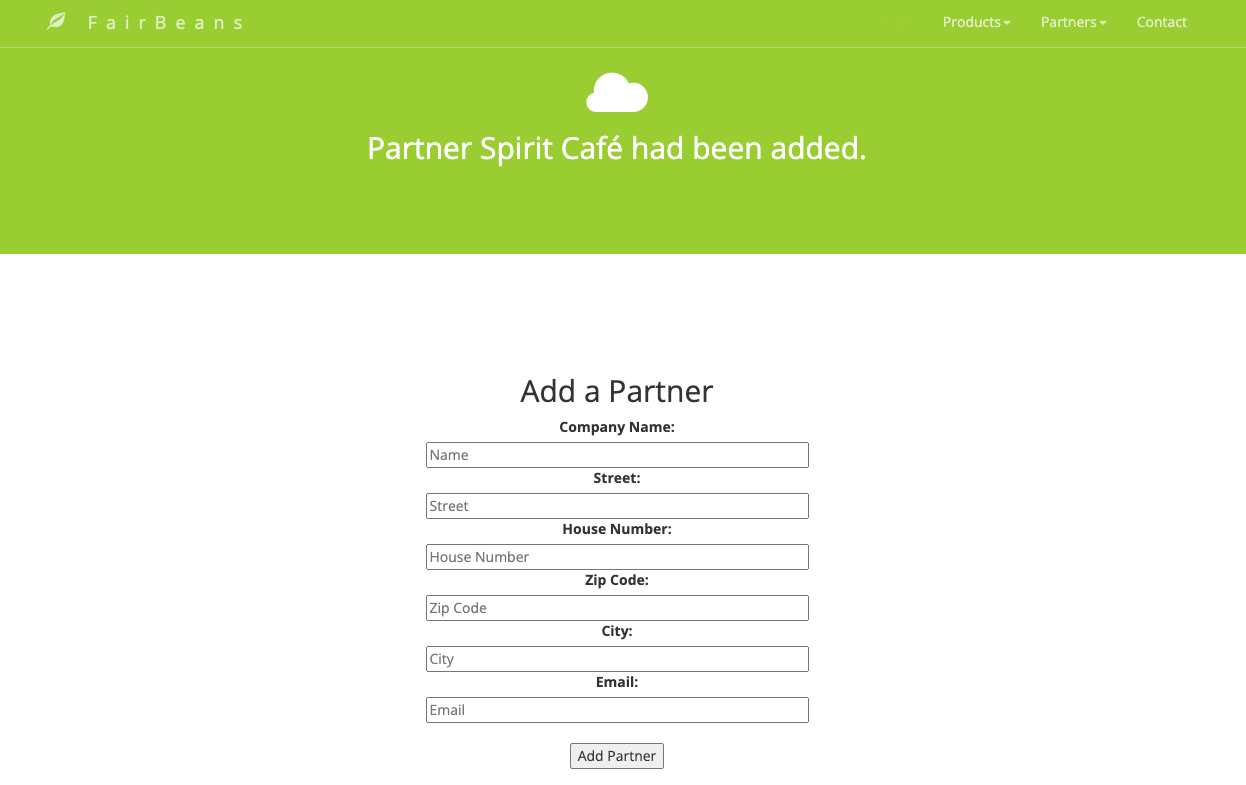
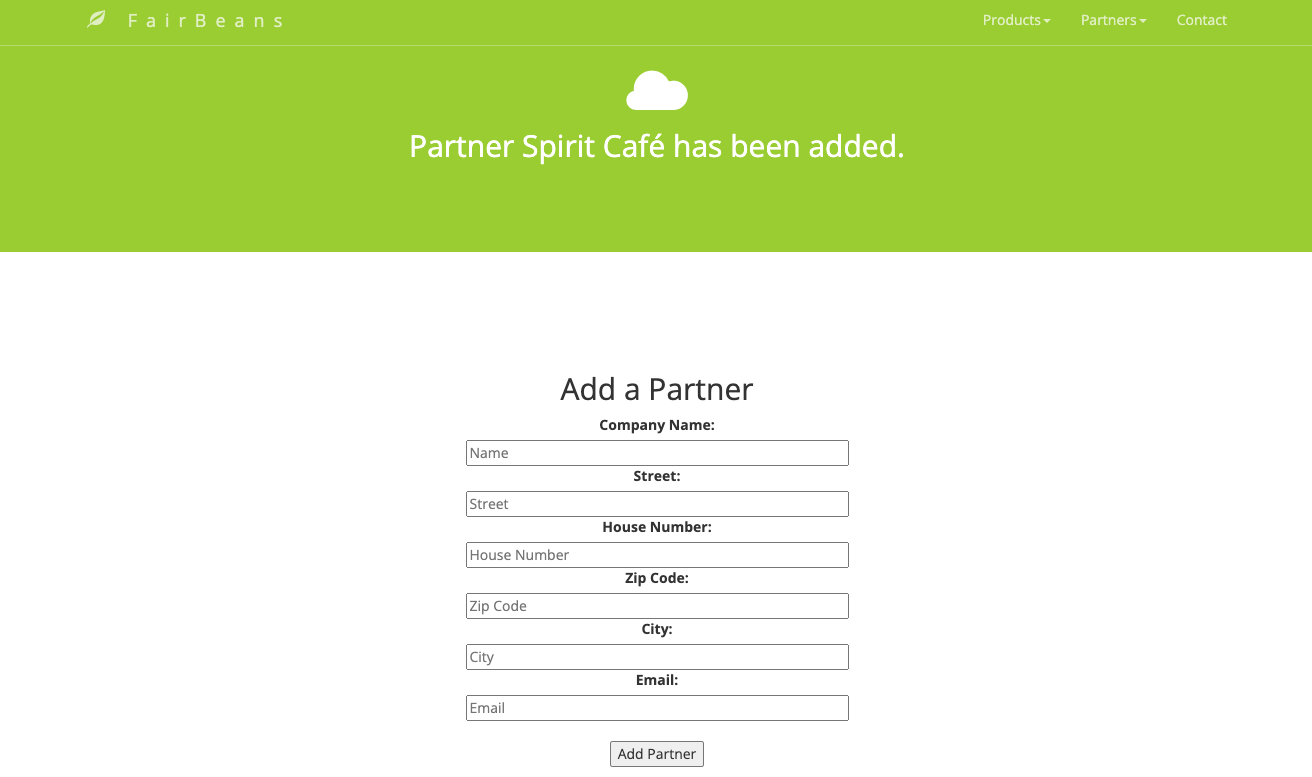
fix typo

diff --git a/src/main/java/com/webapp/fairBeans/controllers/PartnerController.java b/src/main/java/com/webapp/fairBeans/controllers/PartnerController.java
@@ -34,7 +34,7 @@ public class PartnerController {
                            @RequestParam String zipCode, @RequestParam String city, @RequestParam String email,
                            Model model) {
         partnerService.addPartner(name, street, houseNumber, zipCode, city, email);
-        model.addAttribute("message", String.format("Partner %s had been added.", name));
+        model.addAttribute("message", String.format("Partner %s has been added.", name));
         return "add-partner";
     }
 }

diff --git a/src/main/java/com/webapp/fairBeans/controllers/ProductController.java b/src/main/java/com/webapp/fairBeans/controllers/ProductController.java
@@ -36,7 +36,7 @@ public class ProductController {
     @RequestMapping(value="/product/add/success", method=RequestMethod.POST)
     public String addPartner(@RequestParam String name, @RequestParam String description, Model model) {
         productService.addProduct(name, description);
-        model.addAttribute("message", String.format("Product %s had been added.", name));
+        model.addAttribute("message", String.format("Product %s has been added.", name));
         return "add-product";
     }
 }
